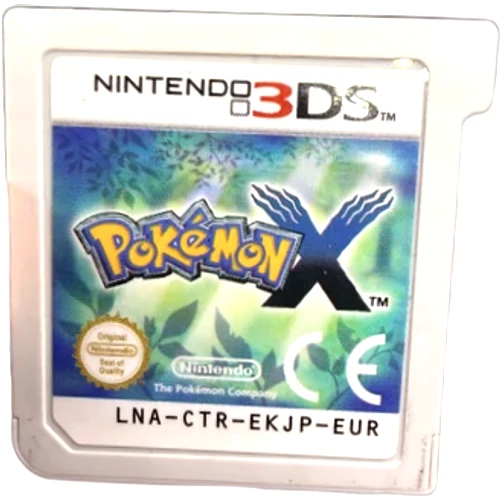
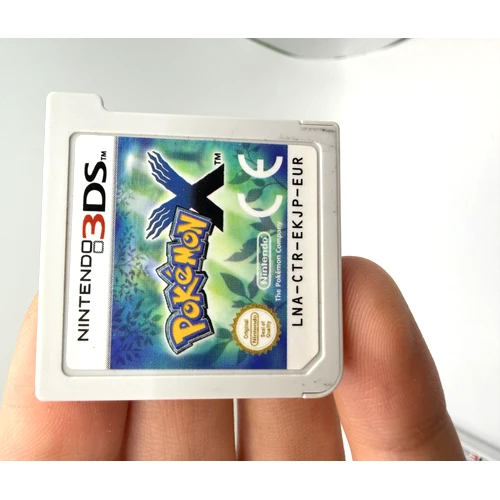
42 eigen productfoto's verwerkt: 22 games met witte achtergrond
- 12 nieuwe games + 10 bestaande games bijgewerkt met Dropbox foto's
- Conservatieve verwerking: hele cartridge behouden, geen agressieve trim
- 500x500 WebP, quality 90, witte achtergrond

diff --git a/scripts/process-dropbox-photos.js b/scripts/process-dropbox-photos.js
@@ -1,0 +1,142 @@
+const sharp = require('sharp');
+const path = require('path');
+const fs = require('fs');
+
+const INPUT_DIR = 'C:\\Users\\Jorn\\Dropbox\\Camera-uploads';
+const OUTPUT_DIR = path.join(__dirname, '..', 'public', 'images', 'products');
+const WHITE = { r: 255, g: 255, b: 255 };
+
+// Alle 43 foto's gemapt naar SKU en bestandsnaam
+// front = voorkant cartridge, back = achterkant
+const PHOTOS = [
+  // === BESTAANDE PRODUCTEN (foto update) ===
+  // Pokémon X (3DS, EUR)
+  { src: '2026-02-11 00.40.13.jpg', out: '3ds-001-pokemon-x.webp' },
+  { src: '2026-02-11 00.40.16.jpg', out: '3ds-001-pokemon-x-back.webp' },
+  // Pokémon Omega Ruby (3DS, EUR)
+  { src: '2026-02-11 00.42.00.jpg', out: '3ds-002-pokemon-omega-ruby.webp' },
+  { src: '2026-02-11 00.42.19.jpg', out: '3ds-002-pokemon-omega-ruby-back.webp' },
+  // Pokémon SoulSilver (DS)
+  { src: '2026-02-11 00.40.34.jpg', out: 'ds-001-pokemon-soulsilver.webp' },
+  { src: '2026-02-11 00.40.40.jpg', out: 'ds-001-pokemon-soulsilver-back.webp' },
+  // Pokémon White (DS, EUR)
+  { src: '2026-02-11 00.43.04.jpg', out: 'ds-002-pokemon-white.webp' },
+  // Pokémon Pearl (DS)
+  { src: '2026-02-11 00.43.23.jpg', out: 'ds-004-pokemon-pearl.webp' },
+  { src: '2026-02-11 00.43.29.jpg', out: 'ds-004-pokemon-pearl-back.webp' },
+  // Pokémon Emerald (GBA, EUR)
+  { src: '2026-02-11 00.45.45.jpg', out: 'gba-001-pokemon-emerald.webp' },
+  { src: '2026-02-11 00.45.52.jpg', out: 'gba-001-pokemon-emerald-back.webp' },
+  // Pokémon FireRed EUR (GBA)
+  { src: '2026-02-11 00.45.11.jpg', out: 'gba-002-pokemon-firered-eur.webp' },
+  { src: '2026-02-11 00.45.15.jpg', out: 'gba-002-pokemon-firered-eur-back.webp' },
+  // Pokémon FireRed USA (GBA)
+  { src: '2026-02-11 00.44.48.jpg', out: 'gba-003-pokemon-firered-usa.webp' },
+  { src: '2026-02-11 00.44.53.jpg', out: 'gba-003-pokemon-firered-usa-back.webp' },
+  // Pokémon LeafGreen (GBA) - USA versie vervangt bestaande
+  { src: '2026-02-11 00.43.53.jpg', out: 'gba-004-pokemon-leafgreen.webp' },
+  { src: '2026-02-11 00.43.57.jpg', out: 'gba-004-pokemon-leafgreen-back.webp' },
+  // Pokémon Sapphire (GBA, EUR)
+  { src: '2026-02-11 00.42.46.jpg', out: 'gba-005-pokemon-sapphire.webp' },
+  { src: '2026-02-11 00.42.57.jpg', out: 'gba-005-pokemon-sapphire-back.webp' },
+
+  // === NIEUWE PRODUCTEN ===
+  // Pokémon Platinum (DS, EUR)
+  { src: '2026-02-11 00.40.23.jpg', out: 'ds-005-pokemon-platinum.webp' },
+  { src: '2026-02-11 00.40.29.jpg', out: 'ds-005-pokemon-platinum-back.webp' },
+  // Pokémon Ranger: Guardian Signs (DS, EUR)
+  { src: '2026-02-11 00.40.46.jpg', out: 'ds-006-pokemon-ranger-guardian-signs.webp' },
+  { src: '2026-02-11 00.40.51.jpg', out: 'ds-006-pokemon-ranger-guardian-signs-back.webp' },
+  // Pokémon Mystery Dungeon: Explorers of Time (DS, EUR)
+  { src: '2026-02-11 00.42.26.jpg', out: 'ds-007-pokemon-mystery-dungeon-explorers-of-time.webp' },
+  { src: '2026-02-11 00.42.31.jpg', out: 'ds-007-pokemon-mystery-dungeon-explorers-of-time-back.webp' },
+  // Pokémon HeartGold (DS, EUR)
+  { src: '2026-02-11 00.43.44.jpg', out: 'ds-008-pokemon-heartgold.webp' },
+  { src: '2026-02-11 00.43.48.jpg', out: 'ds-008-pokemon-heartgold-back.webp' },
+  // Pokémon Ranger: Shadows of Almia (DS, EUR)
+  { src: '2026-02-11 00.44.01.jpg', out: 'ds-009-pokemon-ranger-shadows-of-almia.webp' },
+  { src: '2026-02-11 00.44.08.jpg', out: 'ds-009-pokemon-ranger-shadows-of-almia-back.webp' },
+  // Pokémon Super Mystery Dungeon (3DS, EUR)
+  { src: '2026-02-11 00.41.28.jpg', out: '3ds-003-pokemon-super-mystery-dungeon.webp' },
+  { src: '2026-02-11 00.41.36.jpg', out: '3ds-003-pokemon-super-mystery-dungeon-back.webp' },
+  // Pokémon Moon (3DS, EUR) - geen achterkant
+  { src: '2026-02-11 00.41.40.jpg', out: '3ds-004-pokemon-moon.webp' },
+  // Pokémon Alpha Sapphire (3DS, EUR)
+  { src: '2026-02-11 00.43.35.jpg', out: '3ds-005-pokemon-alpha-sapphire.webp' },
+  { src: '2026-02-11 00.43.38.jpg', out: '3ds-005-pokemon-alpha-sapphire-back.webp' },
+  // Pokémon Mystery Dungeon: Red Rescue Team (GBA, EUR)
+  { src: '2026-02-11 00.41.50.jpg', out: 'gba-006-pokemon-mystery-dungeon-red-rescue-team.webp' },
+  { src: '2026-02-11 00.41.53.jpg', out: 'gba-006-pokemon-mystery-dungeon-red-rescue-team-back.webp' },
+  // Pokémon Trading Card Game (GB)
+  { src: '2026-02-11 00.44.14.jpg', out: 'gb-003-pokemon-trading-card-game.webp' },
+  { src: '2026-02-11 00.44.17.jpg', out: 'gb-003-pokemon-trading-card-game-back.webp' },
+  // Pokémon Sapphire USA (GBA) - 2e exemplaar
+  { src: '2026-02-11 00.44.32.jpg', out: 'gba-007-pokemon-sapphire-usa.webp' },
+  { src: '2026-02-11 00.44.37.jpg', out: 'gba-007-pokemon-sapphire-usa-back.webp' },
+  // Pokémon LeafGreen EUR (GBA) - 2e exemplaar
+  { src: '2026-02-11 00.45.27.jpg', out: 'gba-008-pokemon-leafgreen-eur.webp' },
+  { src: '2026-02-11 00.45.35.jpg', out: 'gba-008-pokemon-leafgreen-eur-back.webp' },
+];
+
+async function processImage(inputPath, outputPath) {
+  // Conservatieve verwerking: hele game behouden, geen agressieve trim
+  let pipeline = sharp(inputPath)
+    .flatten({ background: WHITE });
+
+  // Lichte helderheid boost voor wittere achtergrond
+  pipeline = pipeline.modulate({ brightness: 1.15 });
+
+  // Zeer conservatieve trim — alleen echte witte randen, nooit in de game snijden
+  // Hoge threshold = alleen bijna-pure-witte pixels worden weggesneden
+  pipeline = pipeline.trim({ threshold: 50 });
+
+  // Terug naar 500x500 gecentreerd op wit — contain houdt alles intact
+  pipeline = pipeline.resize(500, 500, {
+    fit: 'contain',
+    background: WHITE,
+    withoutEnlargement: false,
+  });
+
+  await pipeline.webp({ quality: 90 }).toFile(outputPath);
+}
+
+async function main() {
+  let ok = 0;
+  let fail = 0;
+
+  // Verwerk 4 tegelijk voor snelheid
+  const chunks = [];
+  for (let i = 0; i < PHOTOS.length; i += 4) {
+    chunks.push(PHOTOS.slice(i, i + 4));
+  }
+
+  for (const chunk of chunks) {
+    const results = await Promise.allSettled(
+      chunk.map(async (photo) => {
+        const inputPath = path.join(INPUT_DIR, photo.src);
+        const outputPath = path.join(OUTPUT_DIR, photo.out);
+
+        if (!fs.existsSync(inputPath)) {
+          console.log(`SKIP: ${photo.src} (niet gevonden)`);
+          return;
+        }
+
+        await processImage(inputPath, outputPath);
+        const stats = fs.statSync(outputPath);
+        console.log(`OK: ${photo.out} (${Math.round(stats.size / 1024)}KB)`);
+      })
+    );
+
+    results.forEach((r, i) => {
+      if (r.status === 'fulfilled') ok++;
+      else {
+        fail++;
+        console.log(`FOUT: ${chunk[i].out} - ${r.reason?.message}`);
+      }
+    });
+  }
+
+  console.log(`\nKlaar! ${ok} OK, ${fail} fouten van ${PHOTOS.length} foto's.`);
+}
+
+main().catch(console.error);
